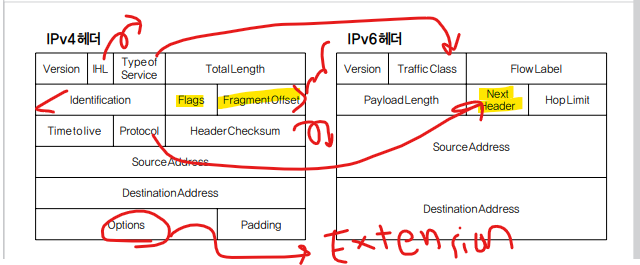
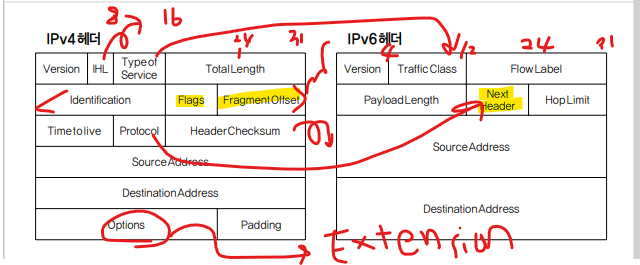
202107171604

diff --git a/note_nw.js b/note_nw.js
@@ -1030,7 +1030,14 @@ T.CONNECT.Request(Called address, Calling address, ... user data) <br/>\
 // [IPv6]- 헤더구성
 '# 헤더 구성 <br/>\
 <img src = "./img/IP_Header.png" style = "max-width:100%; height:auto;"><br/>\
-<font color = "red">기본헤더(40Byte) > 확장 헤더 > 상위 계층 라우터</font><br/><br/>\
+<font color = "red">기본헤더(40Byte) > 확장 헤더 > 상위 계층 라우터<br/>\
+* Identification(8) : 데이터그램 일련번호<br/>\
+* flags(3) : 분열 특성 <br/>\
+* Fragment Offset(13) : 조각나기 전 원래 데이터그램의 8바이트 단위 위치 <br/>\
+* Time to live(8) : IP 패킷 수명 <br/>\
+* Protocol(8) : 상위  계층 프로토콜 데이터 포함 (1-ICMP, 2-IGMP, 6-TCP, 8-EGP, 17-UDP, 89-OSPF<br/>\
+* Option : 가변길이 Bit <br/>\
+* Flow Label(20) : IP 연결지향적 프로토콜 사용 </font><br/><br/>\
 - 헤더길이 필드 제거 <br/>\
 - 서비스 유형 필드 -> 트래픽 클래스 필드 <br/>\
 - 식별, 플래그, 프래그먼트 옵셋 필드 제거 <br/>\
